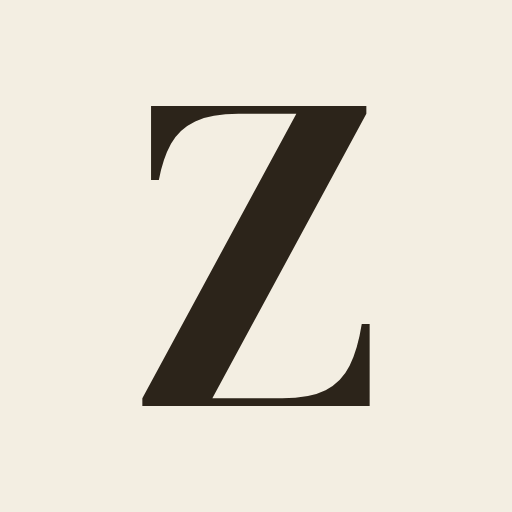
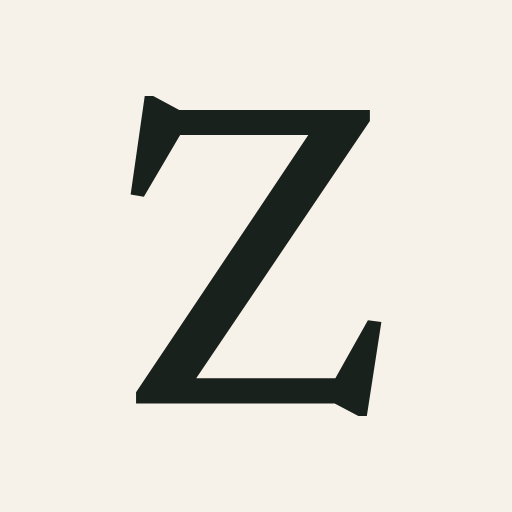
ZAL-A17: /connect and /pricing wear the home header and Newsreader Z on the Paper ground (#1560)
- Both pages use the shared Paper Nav (Newsreader "Zenod" wordmark, light bar),
  with an optional phone Menu (kept from A13) and /pricing's Get started on its plans.
- Their old content keeps its layout and type; only its colours move onto the
  Paper ground (#f6f2e9, ink, deep green), per Jordi's parked restyle (A7, A11).
- The listing icon (/brand/zenod-icon.svg, 512 and 1024 PNG) is now the
  favicon's Newsreader Z, so /connect's icon matches the site.
- Tests: header and icon pinned; GitHub sign-in asserted on the Hosted plan.

Run: run_eb03ed4d-4de2-4a83-a9f9-a197213e52f6

diff --git a/apps/site/src/App.tsx b/apps/site/src/App.tsx
@@ -2,8 +2,6 @@ import * as React from "react";
 import {
   ArrowUpRightIcon,
   BookOpenIcon,
-  KeyRoundIcon,
-  LayoutDashboardIcon,
 } from "lucide-react";
 
 import { cn } from "@/lib/utils";
@@ -13,7 +11,6 @@ import { ConnectPage } from "@/components/connect-page";
 import {
   consumePendingHostedTier,
   createHostedCheckout,
-  DASHBOARD_URL,
   DOCS_URL,
   GOOGLE_SIGN_IN_PATH,
   type CustomerSession,
@@ -129,19 +126,12 @@ function useCustomerJourney(): CustomerJourney {
   return { session, loading, busyTier, error, paidSignupReady, subscribe };
 }
 
-// The /pricing and /connect header (old style, kept until the restyle Jordi
-// parked). Its section links land on the home page's real sections, and below
-// 960 wide a Menu keeps them, with Sign in always visible.
-const SITE_LINKS = [
-  { href: "/#how", label: "How it works" },
-  { href: "/#mcp", label: "Your AI tools" },
-  { href: "/#yours", label: "Your library" },
-  { href: "/#start", label: "Run it your way" },
-  { href: "/connect", label: "Connect" },
-  { href: "/testers", label: "Testers" },
-];
-
-function SiteHeader({
+// /pricing and /connect wear the home page's header (ZAL-A17): the Paper bar
+// with the Newsreader Z wordmark, its section links landing on the home page,
+// Sign in always visible and, below 900 wide, a Menu with the same links.
+// Their content keeps the old layout on a Paper ground until the restyle
+// Jordi parked (A7, A11).
+function PaperBar({
   customer,
   getStartedHref = "/pricing",
 }: {
@@ -149,57 +139,14 @@ function SiteHeader({
   getStartedHref?: string;
 }) {
   return (
-    <header className="v5-nav">
-      <div className="v5-wrap v5-nav-inner">
-        <a className="v5-brand" href="/" aria-label="Zenod home">
-          ZENOD
-          <span aria-hidden="true" />
-        </a>
-        <nav className="v5-nav-links" aria-label="Primary">
-          {SITE_LINKS.map((link) => (
-            <a key={link.href} href={link.href}>
-              {link.label}
-            </a>
-          ))}
-        </nav>
-        <div className="v5-nav-actions">
-          {customer.session ? (
-            <a className="v5-button v5-button-small" href={DASHBOARD_URL}>
-              <LayoutDashboardIcon /> Dashboard
-            </a>
-          ) : (
-            <>
-              <a className="v5-signin" href={GOOGLE_SIGN_IN_PATH}>
-                <KeyRoundIcon /> Sign in
-              </a>
-              <a
-                className="v5-signin v5-github-signin"
-                href={SIGN_IN_PATH}
-                aria-label="Sign in with GitHub"
-              >
-                <GithubIcon />
-              </a>
-            </>
-          )}
-          <a
-            className="v5-button v5-button-small v5-button-primary"
-            href={getStartedHref}
-          >
-            Get started
-          </a>
-          <details className="v5-menu">
-            <summary>Menu</summary>
-            <nav aria-label="Menu">
-              {SITE_LINKS.map((link) => (
-                <a key={link.href} href={link.href}>
-                  {link.label}
-                </a>
-              ))}
-            </nav>
-          </details>
-        </div>
-      </div>
-    </header>
+    <div className="pp pp-bar">
+      <Nav
+        customer={{ signedIn: Boolean(customer.session) }}
+        base="/"
+        menu
+        getStartedHref={getStartedHref}
+      />
+    </div>
   );
 }
 
@@ -361,8 +308,8 @@ function LandingPage({ customer }: { customer: CustomerJourney }) {
 
 function PricingPage({ customer }: { customer: CustomerJourney }) {
   return (
-    <div className="v5-site v5-pricing-page">
-      <SiteHeader customer={customer} getStartedHref="#start" />
+    <div className="v5-site v5-paper v5-pricing-page">
+      <PaperBar customer={customer} getStartedHref="#start" />
       <main className="v5-wrap">
         <section className="v5-pricing-intro">
           <p className="v5-kicker">Zenod plans</p>
@@ -396,7 +343,7 @@ export default function App() {
   if (path === "/connect")
     return (
       <ConnectPage
-        header={<SiteHeader customer={customer} />}
+        header={<PaperBar customer={customer} />}
         footer={<SiteFooter />}
       />
     );

diff --git a/apps/site/src/components/paper-landing.tsx b/apps/site/src/components/paper-landing.tsx
@@ -79,7 +79,27 @@ const CONSTELLATION_KEPT = [
 
 // `base` is "" on the home page and "/" on other Paper pages, so the section
 // links always land on the home page's sections.
-export function Nav({ customer, base = "" }: { customer: Pick<PaperCustomer, "signedIn">; base?: "" | "/" }) {
+// `menu` adds a phone-width Menu with the same links (the /pricing and /connect
+// pages kept theirs from ZAL-A13); `getStartedHref` lets /pricing point at its
+// own plans.
+export function Nav({
+  customer,
+  base = "",
+  menu = false,
+  getStartedHref,
+}: {
+  customer: Pick<PaperCustomer, "signedIn">;
+  base?: "" | "/";
+  menu?: boolean;
+  getStartedHref?: string;
+}) {
+  const links = [
+    { href: `${base}#how`, label: "How it works" },
+    { href: `${base}#mcp`, label: "Your AI tools" },
+    { href: `${base}#start`, label: "Pricing" },
+    { href: "/connect", label: "Connect" },
+    { href: "/testers", label: "Testers" },
+  ];
   return (
     <header className="pp-nav">
       <div className="pp-nav-in">
@@ -87,11 +107,11 @@ export function Nav({ customer, base = "" }: { customer: Pick<PaperCustomer, "si
           Zenod
         </a>
         <nav aria-label="Primary">
-          <a href={`${base}#how`}>How it works</a>
-          <a href={`${base}#mcp`}>Your AI tools</a>
-          <a href={`${base}#start`}>Pricing</a>
-          <a href="/connect">Connect</a>
-          <a href="/testers">Testers</a>
+          {links.map((link) => (
+            <a key={link.href} href={link.href}>
+              {link.label}
+            </a>
+          ))}
         </nav>
         {customer.signedIn ? (
           <a className="pp-nav-link" href={DASHBOARD_URL}>
@@ -102,9 +122,21 @@ export function Nav({ customer, base = "" }: { customer: Pick<PaperCustomer, "si
             Sign in
           </a>
         )}
-        <a className="pp-btn pp-btn-small" href={`${base}#start`}>
+        <a className="pp-btn pp-btn-small" href={getStartedHref ?? `${base}#start`}>
           Get started
         </a>
+        {menu ? (
+          <details className="pp-menu">
+            <summary>Menu</summary>
+            <nav aria-label="Menu">
+              {links.map((link) => (
+                <a key={link.href} href={link.href}>
+                  {link.label}
+                </a>
+              ))}
+            </nav>
+          </details>
+        ) : null}
       </div>
     </header>
   );

diff --git a/apps/site/paper-landing.test.tsx b/apps/site/paper-landing.test.tsx
@@ -204,7 +204,7 @@ describe("Paper landing (ZAL-A9 redo of ZAL-A6)", () => {
       const anchors = [...html.matchAll(/href="\/#([^"]+)"/g)].map((match) => match[1]);
       expect(anchors.length).toBeGreaterThan(0);
       for (const anchor of anchors) expect(homeIds).toContain(anchor);
-      expect(html).toContain('class="v5-menu"');
+      expect(html).toContain('class="pp-menu"');
       expect(html).toContain("Sign in");
     }
     const pricing = render("/pricing");
@@ -212,6 +212,24 @@ describe("Paper landing (ZAL-A9 redo of ZAL-A6)", () => {
     expect(pricing).toMatch(/href="#start"[^>]*>Get started/);
     const css = readFileSync(new URL("./src/index.css", import.meta.url), "utf8");
     expect(css).not.toMatch(/\.v5-signin \{ display: none; \}/);
+  });
+
+  it("gives /pricing and /connect the home page's header and Z (ZAL-A17)", () => {
+    const homeHeader = render("/").match(/<header class="pp-nav">[\s\S]*?<\/header>/)?.[0];
+    expect(homeHeader).toBeTruthy();
+    for (const path of ["/pricing", "/connect"]) {
+      const html = render(path);
+      expect(html).toContain('<div class="pp pp-bar"><header class="pp-nav">');
+      expect(html).toContain('<a class="pp-brand" href="/" aria-label="Zenod home">Zenod</a>');
+      expect(html).not.toContain('class="v5-nav"');
+      expect(html).toContain("v5-paper");
+    }
+    // Content stays: the plans and the connect steps.
+    expect(render("/pricing")).toContain("Start free. Stay in control.");
+    expect(render("/connect")).toContain("cloud.zenod.dev/mcp");
+    // The listing icon is the Newsreader Z of the favicon, not the old Bodoni one.
+    const icon = readFileSync(new URL("./public/brand/zenod-icon.svg", import.meta.url), "utf8");
+    expect(icon).toBe(readFileSync(new URL("./public/favicon.svg", import.meta.url), "utf8"));
   });
 
   it("names the demo data in the footer", () => {

diff --git a/apps/site/src/index.css b/apps/site/src/index.css
@@ -1148,3 +1148,41 @@ body:has(.v5-site) {
 @media (max-width: 860px) {
   .zc-clients { grid-template-columns: 1fr; }
 }
+
+/* ZAL-A17: /pricing and /connect on the home page's Paper ground (ink on
+   #f6f2e9, one deep green), under the shared Paper header. Only colours change
+   here; the layout and type stay until the restyle Jordi parked (A7, A11). */
+body:has(.v5-paper) { background: #f6f2e9; }
+.v5-site.v5-paper {
+  --v5-bg: #f6f2e9;
+  --v5-panel: #efe9dc;
+  --v5-panel-2: #e9e3d5;
+  --v5-ink: #18211c;
+  --v5-muted: #4a554e;
+  --v5-line: #ddd5c4;
+  --v5-line-2: #c9bfab;
+  --v5-acid: #1f4d3a;
+  --v5-cyan: #1f4d3a;
+  --v5-gold: #6b4a1f;
+  --v5-violet: #4a554e;
+  background: var(--v5-bg);
+}
+.v5-paper ::selection { background: #1f4d3a; color: #f6f2e9; }
+.v5-paper main, .zc-page.v5-paper main { padding-top: 0; }
+.v5-paper .v5-button { background: transparent; }
+.v5-paper .v5-button:hover { border-color: var(--v5-ink); }
+.v5-paper .v5-button-primary,
+.v5-paper a.v5-button-primary { background: var(--v5-acid); color: #f6f2e9; }
+.v5-paper .v5-button-primary:hover { border-color: #183d2e; background: #183d2e; }
+.v5-paper .v5-kicker::before { box-shadow: none; }
+.v5-paper .v5-lead,
+.v5-paper .zc-client ol,
+.v5-paper .zc-client > p,
+.v5-paper .zc-tools p,
+.v5-paper .zc-help > p:not(.v5-kicker) { color: #2f3a33; }
+.v5-paper .v5-section-no { color: #6b746e; }
+.v5-paper .v5-section-no::after { background: #c9bfab; }
+.v5-paper .v5-plan-hosted { background: #e9e3d5; }
+.v5-paper .v5-error { color: #a23a2a; }
+.v5-paper .v5-footer { color: #4a554e; }
+.v5-paper .zc-icon { border-color: transparent; }

diff --git a/apps/site/src/paper.css b/apps/site/src/paper.css
@@ -269,3 +269,19 @@ body:has(.pp) {
 @media (prefers-reduced-motion: reduce) {
   .pp *, .pp *::before, .pp *::after { animation: none !important; transition: none !important; }
 }
+
+/* ZAL-A17: the home header on /pricing and /connect. The bar carries .pp only
+   for its colours and fonts; it stays one bar high and sticks over the page. */
+.pp.pp-bar { min-height: 0; position: sticky; top: 0; z-index: 50; overflow: visible; font-size: 1rem; }
+.pp-menu { display: none; position: relative; }
+.pp-menu summary { list-style: none; cursor: pointer; padding: 0.45rem 0.8rem; border: 1px solid var(--pp-ink); border-radius: 999px; font: 500 0.95rem var(--pp-sans); }
+.pp-menu summary::-webkit-details-marker { display: none; }
+.pp-nav .pp-menu nav { position: absolute; right: 0; top: calc(100% + 0.5rem); display: grid; gap: 0; min-width: 12rem; margin: 0; padding: 0.5rem 0; border: 1px solid #d9d1bf; background: var(--pp-bg); }
+.pp-nav .pp-menu nav a { padding: 0.6rem 1rem; }
+@media (max-width: 900px) {
+  .pp-menu { display: block; }
+}
+@media (max-width: 560px) {
+  .pp-bar .pp-nav-in { gap: 0.75rem; }
+  .pp-bar .pp-btn-small { padding: 0.5rem 0.9rem; }
+}

diff --git a/apps/site/public-offer.test.ts b/apps/site/public-offer.test.ts
@@ -41,7 +41,10 @@ describe("public Zenod offer", () => {
   it("keeps sign-in and storage claims provider- and edition-aware", () => {
     const copy = page.replace(/\s+/g, " ")
     expect(page).toContain('GOOGLE_SIGN_IN_PATH')
-    expect(page).toContain('aria-label="Sign in with GitHub"')
+    // The shared Paper header (ZAL-A17) signs in with Google; GitHub sign-in
+    // stays on the Hosted plan, beside Start with Google.
+    expect(page).toContain('customer.subscribe("monthly", SIGN_IN_PATH)')
+    expect(page).toContain("Start with GitHub")
     expect(copy).toMatch(/Self-hosted uses your GitHub vault; Hosted lets you choose/i)
     expect(copy).toMatch(/Hosted: GitHub or Drive · self-hosted: GitHub/i)
   })

diff --git a/apps/site/src/components/connect-page.tsx b/apps/site/src/components/connect-page.tsx
@@ -62,7 +62,7 @@ export function ConnectPage({
   footer: React.ReactNode
 }) {
   return (
-    <div className="v5-site zc-page">
+    <div className="v5-site v5-paper zc-page">
       {header}
       <main className="v5-wrap">
         <section className="zc-intro">
